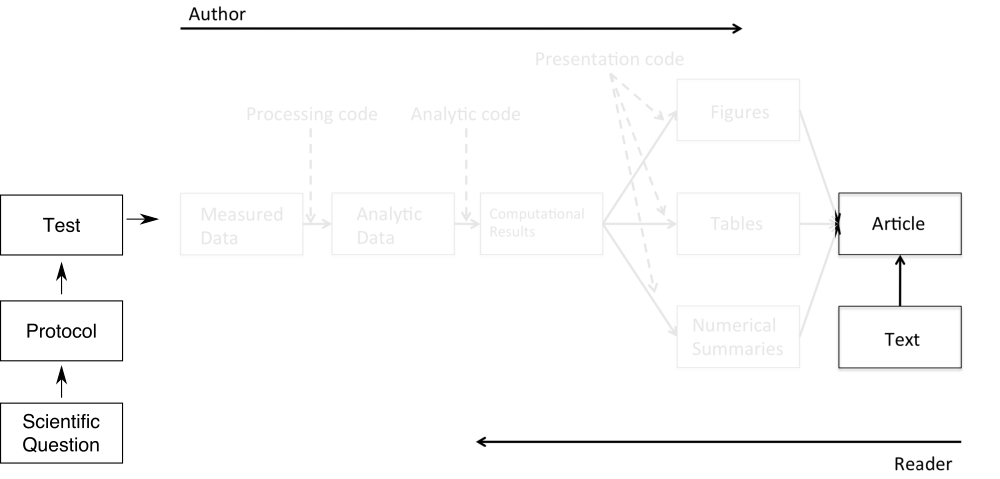
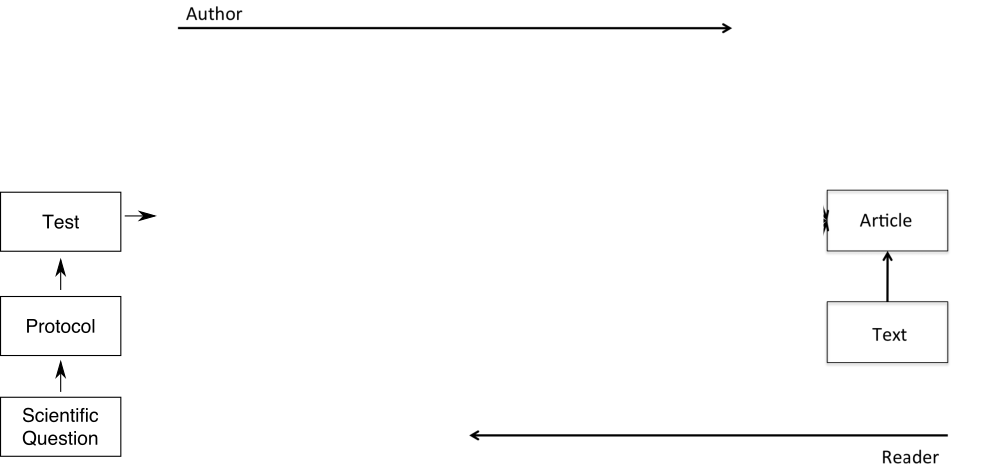
update

diff --git a/_pages/ppt.md b/_pages/ppt.md
@@ -3,7 +3,7 @@ layout: slides
 title: PPT
 author: Fabio
 permalink: "/PPT/"
-image-path: "/assets/images/3-projects/gf/presentation/"
+image-path: "/assets/figures/"
 description: A presentation slide for how to use reveal.js in Jekyll
 theme: white
 transition: slide
@@ -29,52 +29,98 @@ transition: slide
 - Giovanny Arbelaez
 - Mauricio Camargo
 
+<div class="cf"></div>
+
+<img height="400px" class="plain" src="{{ site.baseurl | append:page.image-path | append: 'Phd-comics.gif' }}">
+
+
+
 
 Ecole Génie des Systèmes et de l'Innovation (ENSGSI) - Équipe de Recherche sur les Processus Innovatifs (ERPI)
 
 <img height="100px" class="plain" src="https://erpi.univ-lorraine.fr/assets/images/logo-ERPI.svg">
 
 
-<img height="50px" class="plain" src="{{ site.baseurl | append:page.image-path | append: 'logos/UL-LF2L.png' }}">
+
 ---
 
 # Main goal
 
 - Understand the importance of *replication principle* of the research
-- Create a dynamic document
+- Create a first dynamic document using the Literate programming approach
+
+
+---
+## Music Vs. Research
+
+<div class="container">
+  <div class="col">
+    <img height="600px" class="plain" src="{{ site.baseurl | append:page.image-path | append: 'Musica.jpeg' }}">
+
+  </div>
+
+<div class="col">
+  <img height="600px" class="plain" src="{{ site.baseurl | append:page.image-path | append: 'Paper.png' }}">
+</div>
+
+</div>
+
+---
+
+# The paper Pipeline
+
+<img height="120%" class="plain" src="{{ site.baseurl | append:page.image-path | append: 'Article-pipeline-1.png' }}">
 
 
 
 ---
-## Music and Research
+
+# The paper Pipeline
 
 
+<img height="120%" class="plain" src="{{ site.baseurl | append:page.image-path | append: 'Article-pipeline-2.png' }}">
 
+Describe in detail this section...
 
 ---
+
 ## Replication Vs. Reproducibility
 
+<div class="container">
+  <div class="col">
+    
+**Replication** focuses on the validity of the scientific claim.
 
-- **Replication** focuses on the validity of the scientific claim.
 - "Is this claim true?"
-
 - Important for policymakers and regulatory decisions
 
----
 
+    <img height="300px" class="plain" src="{{ site.baseurl | append:page.image-path | append: 'Musica.jpeg' }}">
+
+  </div>
+
+<div class="col">
+
+**Reproducibility**  refers to the ability of a researcher to duplicate the results of a prior study using the same materials as were used by the original researcher (Goodman, Fanelli, and Ioannidis 2016).
+
+- Focuses on the validity of the data analysis
+- *"Can we trust this analysis?"*
+
+
+<img height="300px" class="plain" src="{{ site.baseurl | append:page.image-path | append: 'Paper.png' }}">
+</div>
+
+</div>
+
+
+
+---
 ## Replication Vs. Reproducibility
 
-- **Reproducibility**  refers to the ability of a researcher to duplicate the results of a prior study using the same materials as were used by the original researcher (Goodman, Fanelli, and Ioannidis 2016).
+Two key principles: 
 
-- Focuses on the validity of the data analysis --- *"Can we trust this analysis?"*
-
-
----
-## Replication Vs. Reproducibility
-
- Two key principles: 
- - Literate programming for enabling reproducibilty
- - Version control for enhancing transparency
+- Literate programming for enabling reproducibilty
+- Version control for enhancing transparency
 
 
 ---
@@ -87,29 +133,38 @@ Ecole Génie des Systèmes et de l'Innovation (ENSGSI) - Équipe de Recherche su
 
 
 ---
-# Why do we need reproducible research?
+
+# Why do we need Reproducible Research?
+
+
+- 
+- Avoid misconduct such as fraudulent data and plagiarism
+
+- Data-intensive research (e.g Big data research)
+
+
+
+
 
 
 
 
 ---
-# The paper Pipeline
 
+# Who use  Reproducible Research?
 
+**Authors**
 
+-  Want to make their research reproducible.
+-  Want tools for RR to make their lives easier (or at least not much harder)
 
----
+**Readers** 
 
-# Why Reproducible Research is it important?
-
+- Want to reproduce (and perhaps expand upon) interesting findings
+- Want tools for RR to make their lives easier
 
 
 --- 
-# Concept and Ideas
-
-
-
---
 
 
 # Summary
